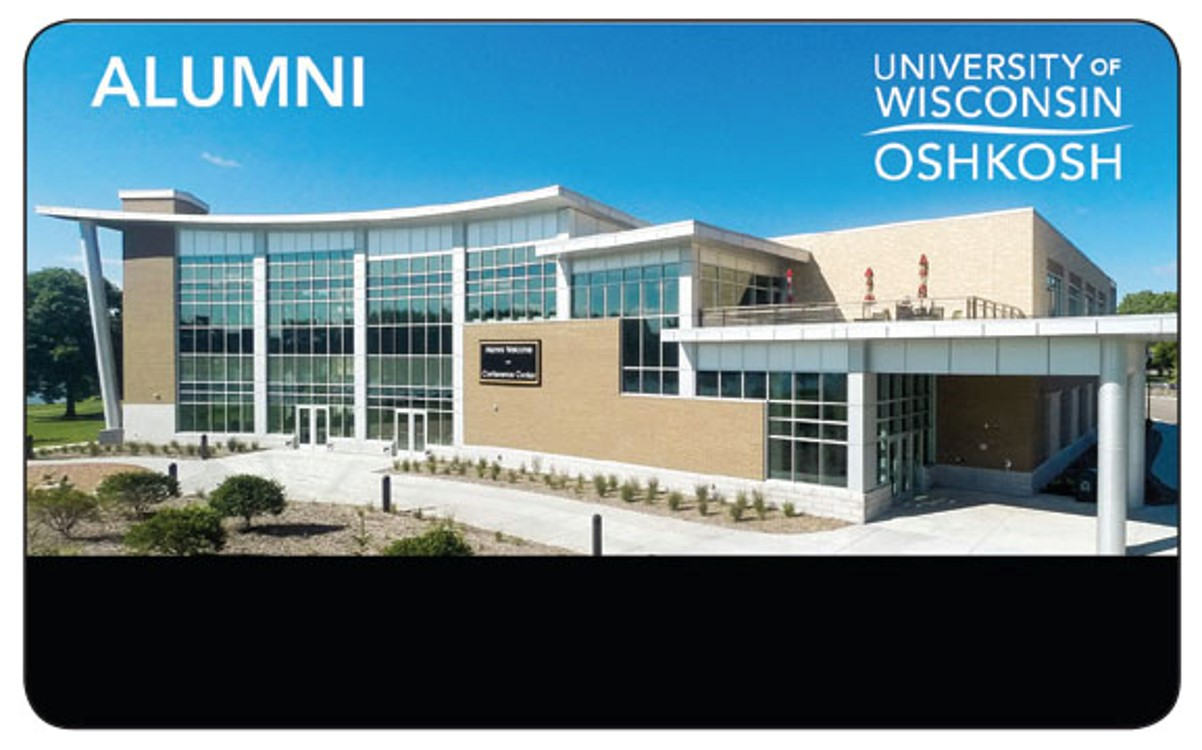
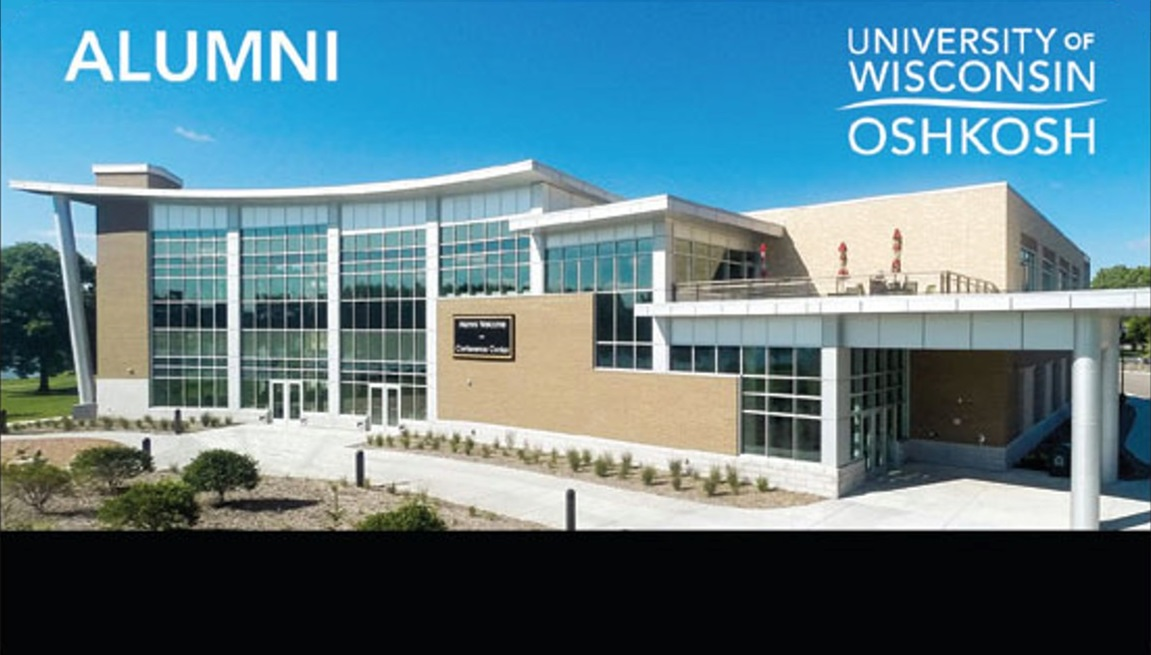
edited College of Business card backgrounds

diff --git a/php/alumnicard.php b/php/alumnicard.php
@@ -7,7 +7,7 @@ $backgroundImage = $_SESSION["background"];
 if($backgroundImage == 1)
   $img = "ClashAlumniCardTemplate.jpg";
 else if($backgroundImage == 2)
-  $img = "COBAlumniCardTemplate.jpg";
+  $img = "Picture4.png";
 else
   $img = "ScapeAlumniCardTemplate.jpg";
 
